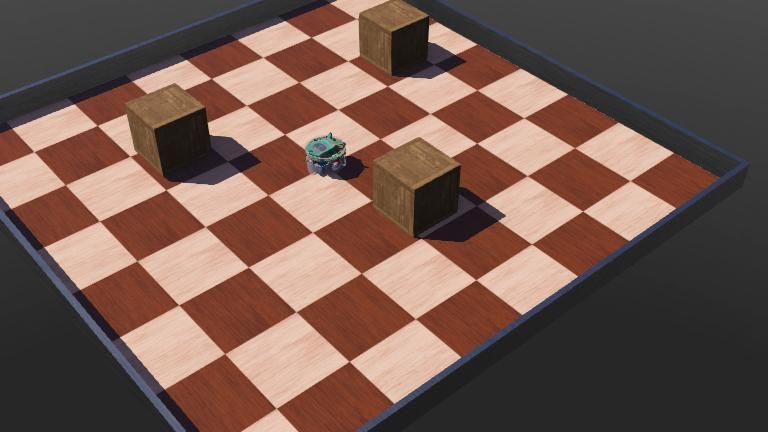
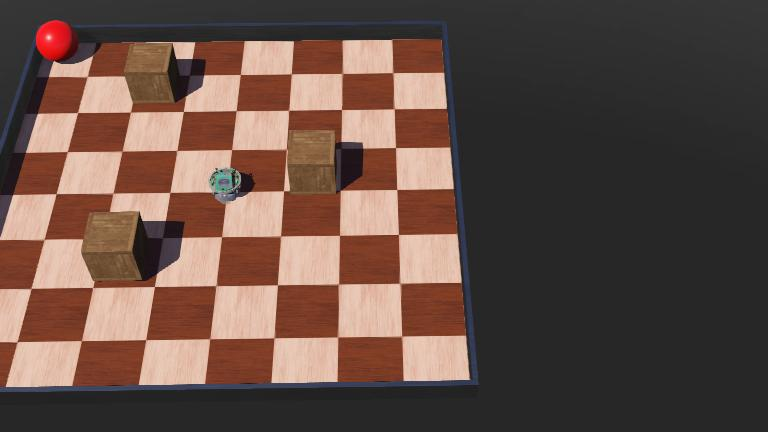
Beepy be boppin

diff --git a/ImageDreamerWebots/controllers/epuck_go_forward/epuck_go_forward.py b/ImageDreamerWebots/controllers/epuck_go_forward/epuck_go_forward.py
@@ -37,18 +37,20 @@ class PendulumEnv(gym.Env):
         self.trans_field = self.robot_node.getField("translation")
         self.rot_field = self.robot_node.getField("rotation")
 
+        self.ball = self.supervisor.getFromDef("BALL")
+        self.ball_trans= self.ball.getField("translation")
 
-        print(self.robot_node)
+        # print(self.robot_node)
         # initialize devices
-        self.ps = []
-        self.psNames = [
-            'ps0', 'ps1', 'ps2', 'ps3',
-            'ps4', 'ps5', 'ps6', 'ps7'
-        ]
+        # self.ps = []
+        # self.psNames = [
+        #     'ps0', 'ps1', 'ps2', 'ps3',
+        #     'ps4', 'ps5', 'ps6', 'ps7'
+        # ]
 
-        for i in range(8):
-            self.ps.append(self.robot.getDevice(self.psNames[i]))
-            self.ps[i].enable(self.timestep)
+        # for i in range(8):
+        #     self.ps.append(self.robot.getDevice(self.psNames[i]))
+        #     self.ps[i].enable(self.timestep)
 
         self.leftMotor = self.robot.getDevice('left wheel motor')
         self.rightMotor = self.robot.getDevice('right wheel motor')
@@ -82,15 +84,23 @@ class PendulumEnv(gym.Env):
         self.rightMotor.setVelocity(u[1] * self.maxspeed)
 
         done = False
-        if self.timespent > 1e4: # time in ms
+        if self.timespent > 2e4: # time in ms
             done = True
+        
+        # REWARDS
+        self.robot_pos = np.asarray(self.trans_field.getSFVec3f())
+        self.reward = 1/np.sum((self.robot_pos-self.goal)**2)
 
-        return self._get_obs(), 1, done, {}
+        return self._get_obs(), self.reward, done, {}
 
     def reset(self):
+
+        self.goal = np.asarray(self.ball_trans.getSFVec3f())
+
         self.img = np.zeros((32,32,3), dtype=np.uint8)
         self.timespent = 0
 
+        # reset robot
         self.trans_field.setSFVec3f([0,0,0])
         self.rot_field.setSFRotation([1,0,0,0])
         self.robot_node.resetPhysics()

diff --git a/VectorDreamerWebots/controllers/epuck_go_forward/epuck_go_forward.py b/VectorDreamerWebots/controllers/epuck_go_forward/epuck_go_forward.py
@@ -34,6 +34,9 @@ class PendulumEnv(gym.Env):
         # Supervisor setup
         self.supervisor = Supervisor()
         self.robot_node = self.supervisor.getFromDef("_BEEPY_")
+        self.box_node = self.supervisor.getFromDef("BOXY")
+
+        self.box_pos = self.box_node.getField("translation")
         self.trans_field = self.robot_node.getField("translation")
         self.rot_field = self.robot_node.getField("rotation")
 
@@ -85,9 +88,17 @@ class PendulumEnv(gym.Env):
         return self._get_obs(), np.sum(self._get_obs())**2/1e7, done, {}
 
     def reset(self):
+        # set sensor values to 0
         self.psValues = np.zeros((8,), dtype=np.float32)
         self.timespent = 0
 
+        randpos = np.zeros(3)
+        randpos[:2] = np.random.random(2)-0.5
+        randpos[2] = 0.05
+
+        self.box_pos.setSFVec3f(list(randpos))
+
+        # reset robot position and rotation
         self.trans_field.setSFVec3f([0,0,0])
         self.rot_field.setSFRotation([1,0,0,0])
         self.robot_node.resetPhysics()
